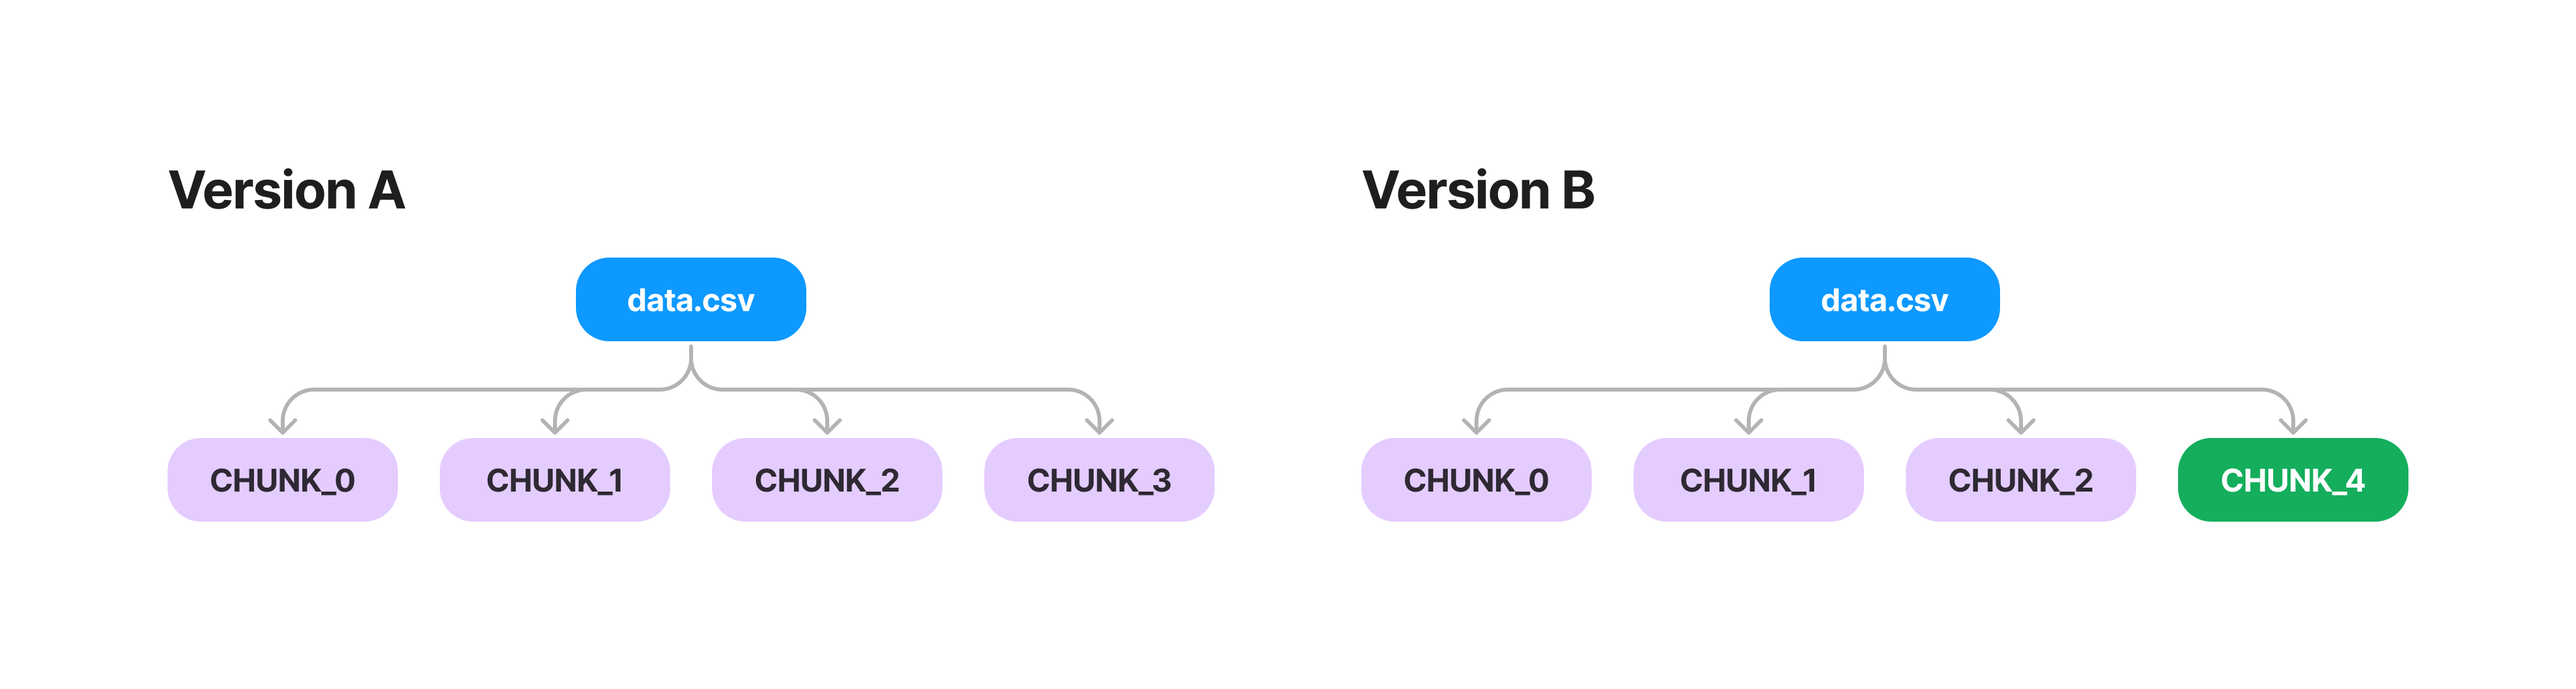
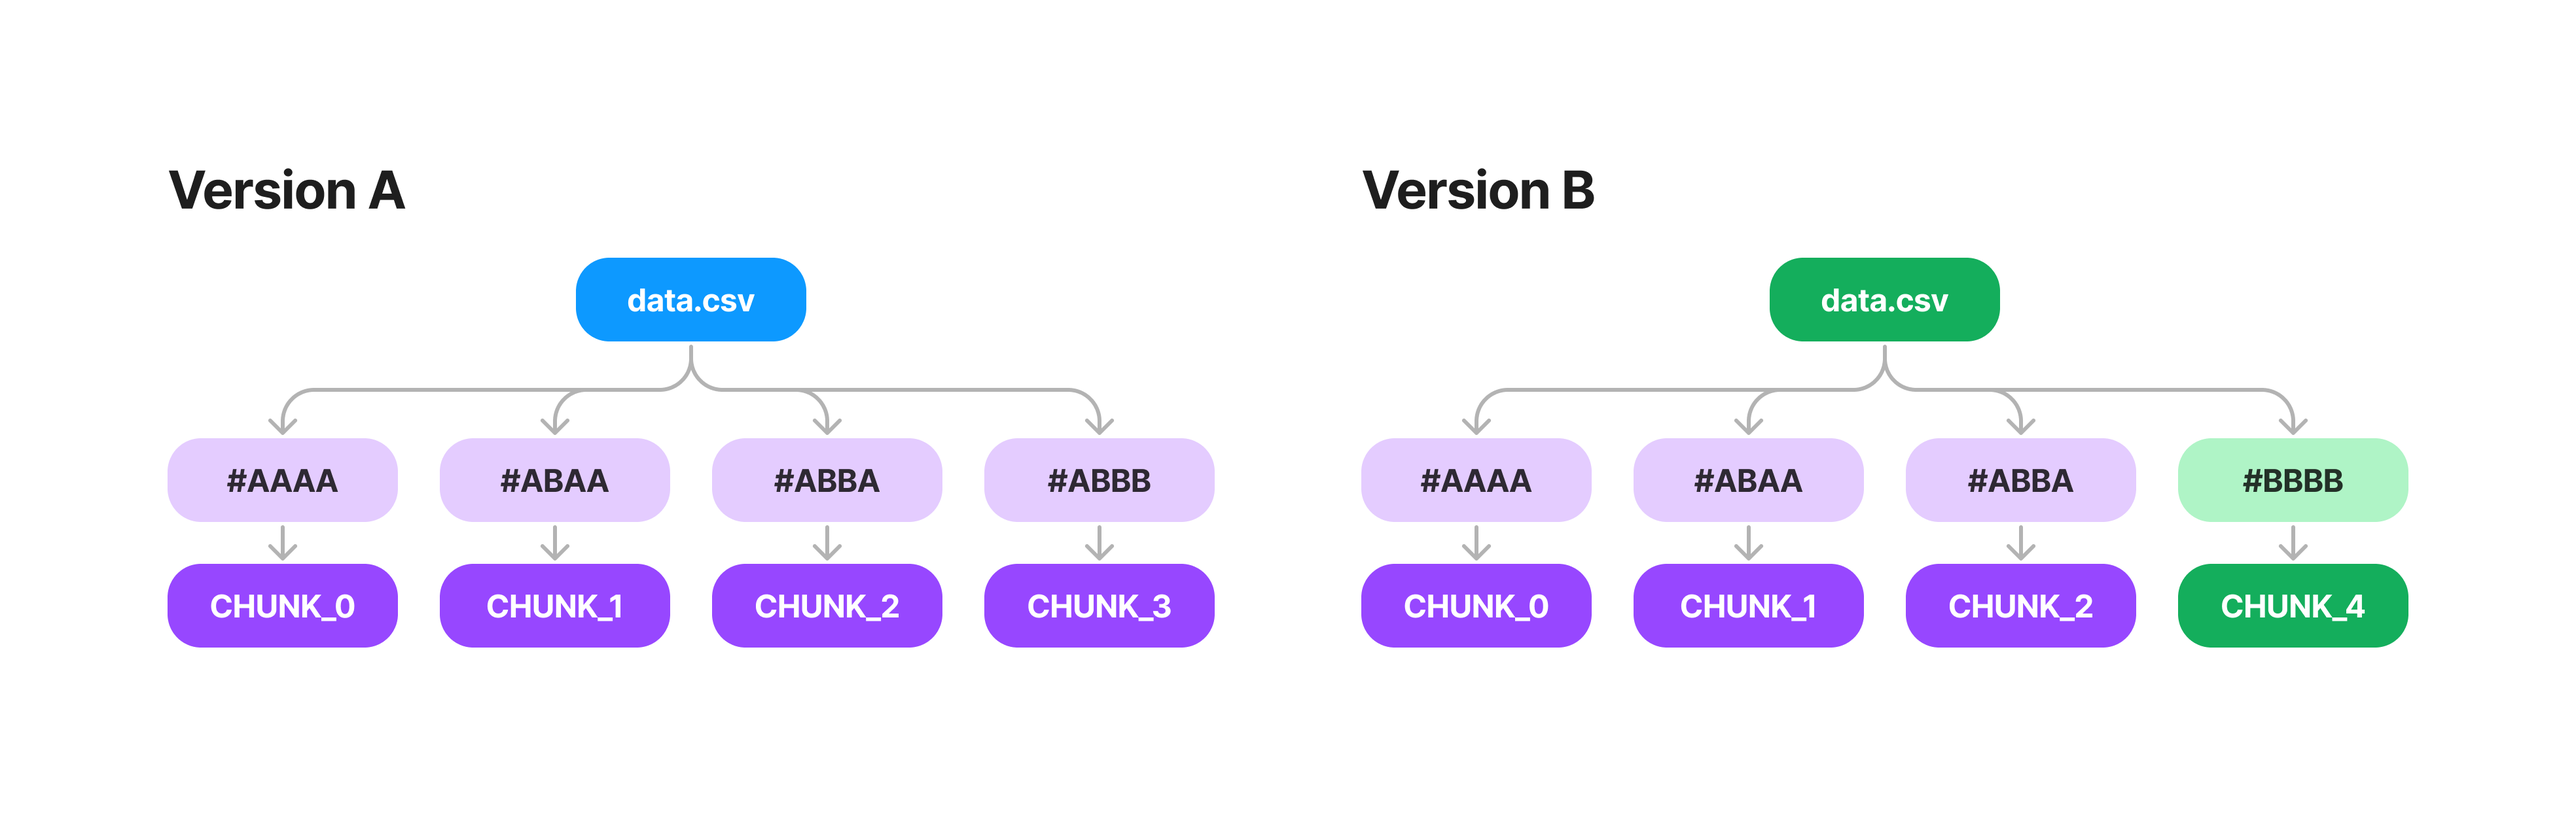
add hash to chunks diagram

diff --git a/src/domains/merkle_trees.md b/src/domains/merkle_trees.md
@@ -1,6 +1,6 @@
 # Files, Directories and Merkle Trees 🌲
 
-When you create a commit within Oxen, you can think of it as a snapshot of the state of the files and directories in the repository at a particular point in time. This means each commit will need a reference to all the files and directories that are present in the repository at the time of the commit.
+When you create a commit within Oxen, you can think of it as a snapshot of the state of the files and directories in the repository at a particular point in time. This means each commit will need a reference to all the files and directories that are present in the repository at that point in time.
 
 Let's use a small dataset as an example.
 
@@ -130,25 +130,25 @@ images/image3.jpg -> hash6
 Commit B
 
 ```
-README.md         -> hash1 # repeated
-LICENSE           -> hash2 # repeated
-images/image0.jpg -> hash3 # repeated
-images/image1.jpg -> hash4 # repeated
-images/image2.jpg -> hash5 # repeated
-images/image3.jpg -> hash6 # repeated
+README.md         -> hash1 # repeated 1 time
+LICENSE           -> hash2 # repeated 1 time
+images/image0.jpg -> hash3 # repeated 1 time
+images/image1.jpg -> hash4 # repeated 1 time
+images/image2.jpg -> hash5 # repeated 1 time
+images/image3.jpg -> hash6 # repeated 1 time
 images/image4.jpg -> hash7 # NEW
 ```
 
 Commit C
 
 ```
-README.md         -> hash1 # repeated
-LICENSE           -> hash2 # repeated
-images/image0.jpg -> hash3 # repeated
-images/image1.jpg -> hash4 # repeated
-images/image2.jpg -> hash5 # repeated
-images/image3.jpg -> hash6 # repeated
-images/image4.jpg -> hash7 # repeated
+README.md         -> hash1 # repeated 2 times
+LICENSE           -> hash2 # repeated 2 times
+images/image0.jpg -> hash3 # repeated 2 times
+images/image1.jpg -> hash4 # repeated 2 times
+images/image2.jpg -> hash5 # repeated 2 times
+images/image3.jpg -> hash6 # repeated 2 times
+images/image4.jpg -> hash7 # repeated 1 time
 images/image5.jpg -> hash8 # NEW
 ```
 
@@ -157,14 +157,14 @@ images/image5.jpg -> hash8 # NEW
 Commit 10_000
 
 ```
-README.md              -> hash1
-LICENSE                -> hash2
-images/image0.jpg      -> hash3
-images/image1.jpg      -> hash4
-images/image2.jpg      -> hash5
-images/image3.jpg      -> hash6
-images/image4.jpg      -> hash7
-images/image5.jpg      -> hash8
+README.md              -> hash1 # repeated N times
+LICENSE                -> hash2 # repeated N times
+images/image0.jpg      -> hash3 # repeated N times
+images/image1.jpg      -> hash4 # repeated N times
+images/image2.jpg      -> hash5 # repeated N times
+images/image3.jpg      -> hash6 # repeated N times
+images/image4.jpg      -> hash7 # repeated N times
+images/image5.jpg      -> hash8 # repeated N times
 ...
 images/image10_000.jpg -> hash10_000
 ```
@@ -248,9 +248,9 @@ To drive this home, let's go back to our example directory with 10,000 images wi
 
 # File Chunk Deduplication
 
-The Merkle Tree optimizations we've talked about so far make adding and committing snapshots of the directory structure to Oxen snappy. The remainder of the storage cost is at the individual leaf nodes of the tree. We want Oxen to be efficient at storing *many files* and efficient at storing *large files* such as data frames of parquet, jsonl, csv, etc.
+The Merkle Tree optimizations we've talked about so far make adding and committing snapshots of the directory structure to Oxen snappy. The remainder of the storage cost is at the individual leaf nodes of the tree. We want Oxen to be efficient at storing many files as well as efficient at storing large files. In our context these large files may be data frames of [parquet](https://parquet.apache.org/), [arrow](https://arrow.apache.org/), [jsonl](https://jsonlines.org/), [csv](https://en.wikipedia.org/wiki/Comma-separated_values), etc.
 
-Visualizing how much storage space individual nodes take, a large CSV in the `.oxen/versions` directory can be the majority of the space. The pointers and hashes within the tree itself are relatively small.
+To visualize how much storage space individual nodes take, let's look at a large CSV in the `.oxen/versions` directory. The pointers and hashes within the tree itself are relatively small, but the file contents themselves are large.
 
 ![Large CSV](/images/merkle_tree/large_csv.png)
 
@@ -266,7 +266,7 @@ Think back to the key insight that we made earlier about duplicating data betwee
 
 This results in a lot of duplicated data. In fact rows 0-1,000,000 are all the same between Version A and Version B.
 
-To combat this, Oxen uses a technique called file chunk deduplication. Even if your Oxen repo is getting a little "chunky" we can leverage the fact that many of the chunks are the same to slim down the version history. Instead of duplicating the entire raw file in the `.oxen/versions` directory, we can break the file into "chunks" then store these chunks in the `.oxen/chunks` directory. 
+To combat this, Oxen uses a technique called file chunk deduplication. Instead of duplicating the entire raw file in the `.oxen/versions` directory, we can break the file into "chunks" then store these chunks in a content addressable manner. 
 
 ![Chunks](/images/merkle_tree/chunk_a.png)
 
@@ -276,12 +276,15 @@ Then if you update any rows in the file, we create a new chunk for that section 
 
 So the original tree looks like this.
 
-![Chunks](/images/merkle_tree/chunks.png)
+![Chunks](/images/merkle_tree/tree_chunks.png)
 
 Then when the row is added, all we have to do is update the final chunk and propagate the changes up the tree.
 
-![Update Chunk](/images/merkle_tree/chunks_update.png)
+![Update Chunk](/images/merkle_tree/tree_chunks_update.png)
 
+What's great about this, is now we also only need to sync the chunks that have changed over the network and not the entire file. Chunks themselves are ~16kb in size, so updating a single value in a 1GB file will only sync this small portion of the file.
+
+When swapping between versions we simply reconstruct the chunks associated with each file and write them to disk. This means we need one more small db that stores the mapping from chunk_idx -> chunk_hash. We can store this in the `.oxen/versions` directory instead of the file contents, saving space!
 
 ## Benefits of the Merkle Tree
 
